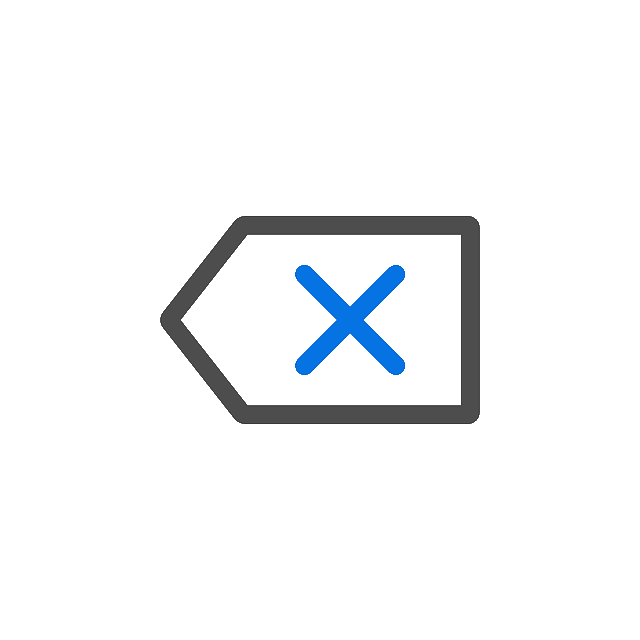
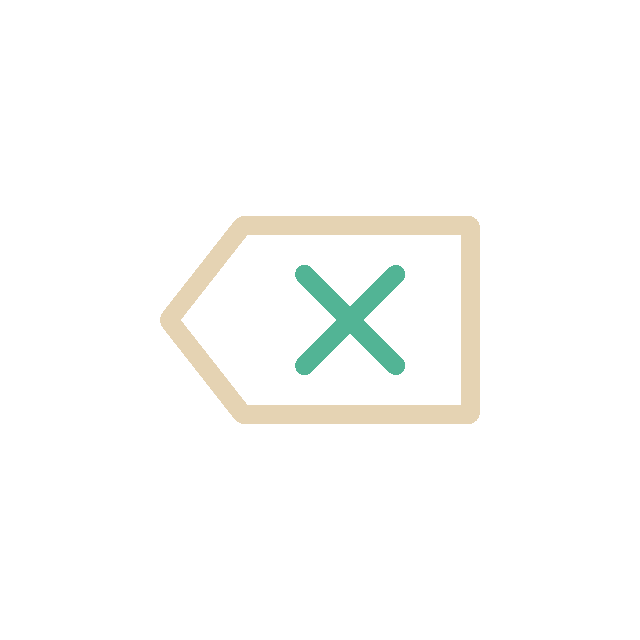
Made drastic changes in the ui

Changed region(s): [[0.25, 0.3125, 0.75, 0.6875], [0.4375, 0.4062, 0.6562, 0.5938]]

diff --git a/styles.css b/styles.css
@@ -1,4 +1,6 @@
 html {
+    -ms-touch-action: manipulation;
+    touch-action: manipulation;
     width: 100%;
     height: 100%;
 }
@@ -9,46 +11,77 @@ body {
     display: flex;
     align-items: center;
     justify-content: center;
+    background-color: #03001C;
 }
 .operations {
-    width: 300px;
+    width: 275px;
     height: 100px;
-    background-color: white;
+    background-color: #E5D3B3;
     margin: 20px;
     display: flex;
     flex-direction: column;
     align-items: center;
+    border-radius: 20px;
+    border: #52b495 solid 10px;
 }
 main {
-    width: 400px;
-    height: 600px;
-    background-color: #bababa;
+    width: 370px;
+    height: 580px;
+    background-color: #5B8FB9;
     display: flex;
     align-items: center;
     justify-content: center;
     flex-direction: column;
+    border-radius: 20px;
 }
-
 .down-part {
     display: grid;
     grid-template-columns: repeat(4, 0fr);
-    grid-template-rows: repeat(4, 0fr)
+    grid-template-rows: repeat(4, 0fr);
+    gap: 5px;
 }
-
 button {
-    width: 80px;
-    height: 80px;
+    width: 70px;
+    height: 70px;
     padding: 0;
+    background-color: #301E67;
+    color: #E5D3B3;
+    font-size: 40px;
     -webkit-touch-callout: none;
     -webkit-user-select: none;
     -khtml-user-select: none;
     -moz-user-select: none;
     -ms-user-select: none;
     user-select: none;
+    border-radius: 20px;
+    border: 2px solid black;
+    bottom: 0;
+    transition: bottom 0.5s;
+    position: relative;
+}
+button:hover {
+    bottom: 3px;
+    border: 2px solid #c51f73;
+}
+button:active {
+    border: 4px solid #c51f73;
+}
+.AC:hover, .backspace:hover {
+    border: 2px solid #ff1300;  
+}
+.AC:active, .backspace:active {
+    border: 4px solid #ff1300;  
+}
+.equals:hover {
+    border: 2px solid #94e42b;
+}
+.equals:active {
+    border: 4px solid #94e42b;
 }
 img {
-    width: 70px;
-    height: 70px;
+    width: 90px;
+    height: 90px;
+    margin-right: 4px;
     gap: 0;
 }
 .backspace {
@@ -60,7 +93,7 @@ p {
     word-wrap: break-word;
     overflow-x: auto;
     height: 20px;
-    width: 260px;
+    width: 240px;
     margin: 15px;
 }
 .AC {

diff --git a/index.html b/index.html
@@ -30,7 +30,7 @@
                 <button onclick="plus()">+</button>
                 <button class="zero" onclick="zero()">0</button>
                 <button onclick="point()">.</button>
-                <button onclick="equals()">=</button>
+                <button class="equals" onclick="equals()">=</button>
             </div>
         </main>
         <script src="calculator.js"></script>
